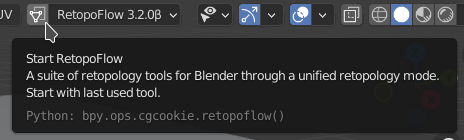
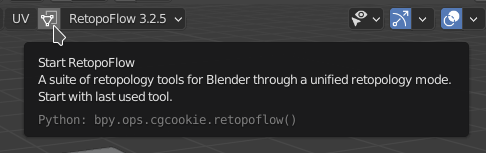
fixed bug in blender menu, updated changelist, updated help images

diff --git a/__init__.py b/__init__.py
@@ -399,6 +399,7 @@ if import_succeeded:
 
         @staticmethod
         def draw_popover(self, context):
+            self.layout.separator()
             if is_editing_target(context):
                 self.layout.operator('cgcookie.retopoflow', text="", icon='MOD_DATA_TRANSFER')
             self.layout.popover('VIEW3D_PT_RetopoFlow')
@@ -437,9 +438,9 @@ if import_succeeded:
 
             # layout checks
             if multiple_3dviews(context):
-                warnings.add('layout: multiple 3dviews')
+                warnings.add('layout: multiple 3d views')
             if in_quadview(context):
-                warnings.add('layout. in quad view')
+                warnings.add('layout: in quad view')
             if any(space.lock_cursor for space in context.area.spaces if space.type == 'VIEW_3D'):
                 warnings.add('layout: view is locked to cursor')
             if any(space.lock_object for space in context.area.spaces if space.type == 'VIEW_3D'):
@@ -471,7 +472,7 @@ if import_succeeded:
             def get_warning_subbox(label):
                 nonlocal warningsubboxes
                 if label not in warningsubboxes:
-                    box = layout.box() # add_warning().column()
+                    box = layout.box().column(align=True) # add_warning().column()
                     box.label(text=label, icon='ERROR')
                     warningsubboxes[label] = box
                 return warningsubboxes[label]
@@ -501,7 +502,7 @@ if import_succeeded:
                 box.label(text=f'Sources are too large (>{options["warning max sources"]})', icon='DOT')
 
             # LAYOUT
-            if 'layout: multiple views' in warnings:
+            if 'layout: multiple 3d views' in warnings:
                 box = get_warning_subbox('Layout Issue')
                 box.label(text='Multiple 3D Views', icon='DOT')
             if 'layout: in quad view' in warnings:

diff --git a/help/warnings.md b/help/warnings.md
@@ -52,7 +52,8 @@ Temporary file path: `{`options.get_auto_save_filepath()`}`
 RetopoFlow is designed to perform well on _typical_ production retopology scenarios.
 Running RetopoFlow on source/target meshes beyond a reasonable range is possible, but it will result in slower performance and a poorer experience.
 
-A typical retopology workflow would involve <{[warning max sources]} polygons in total for all source meshes and <{[warning max target]} polygons for the target mesh. That's the point at which Blender starts to slow down, and there's not a lot we can do to be faster than Blender itself.
+A typical retopology workflow would involve <{[warning max sources]} polygons in total for all source meshes and <{[warning max target]} polygons for the target mesh.
+Beyond these counts is the point at which Blender starts to slow down, and there's not a lot we can do to be faster than Blender itself.
 
 If your retopology target polygon count exceeds the {[warning max target]} count threshold, please try the following:
 
@@ -66,7 +67,7 @@ If your total source mesh(es) polygon count exceeds the {[warning max sources]} 
 - Create a decimated copy of your source mesh and retopologize the copy. As long as it doesn't noticibly impact the silhouette of the object, decimation won't affect the resulting retopology at all
 - Disable any Subdivision Surface modifiers or lower the Multiresolution Modifier display level
 - Segment your sources into separate parts and retopologize one at a time
-
+- Work in a .blend file that links in the large source meshes.  This may not improve the speed of editing, but it will improve (auto-)save times.
 
 
 ## Inverted Normals

diff --git a/help/changelist.md b/help/changelist.md
@@ -4,8 +4,15 @@ This document contains details about what has changed in RetopoFlow since versio
 
 ### RetopoFlow 3.2.4&rarr;3.2.5
 
-- Redirected CookieCutter debug output to a text block for easier debugging
-- ...
+- Worked around a major crashing bug in Blender 3.0 and 3.1
+- Overhauled RetopoFlow's Blender menu, by adding custom icons to buttons, improving the wording, buttons to online help documents, buttons to updater
+- Modifier keys (`Ctrl`, `Shift`, `Alt`, `OSKey`) now show OSX-specific symbols (`^`, `⇧`, `⌥`, `⌘`) for better readability on OSX machines
+- Improved keymap editor
+- Minor improvements for smaller screens
+- Started working on improvements for error reporting
+- Started refactoring code for major changes to Blender 3.0+ API, such as removing dependence on the deprecated `bgl` module
+- Many bug fixes
+- General cleaning up of old code and adding comments
 
 ### RetopoFlow 3.2.3&rarr;3.2.4
 
